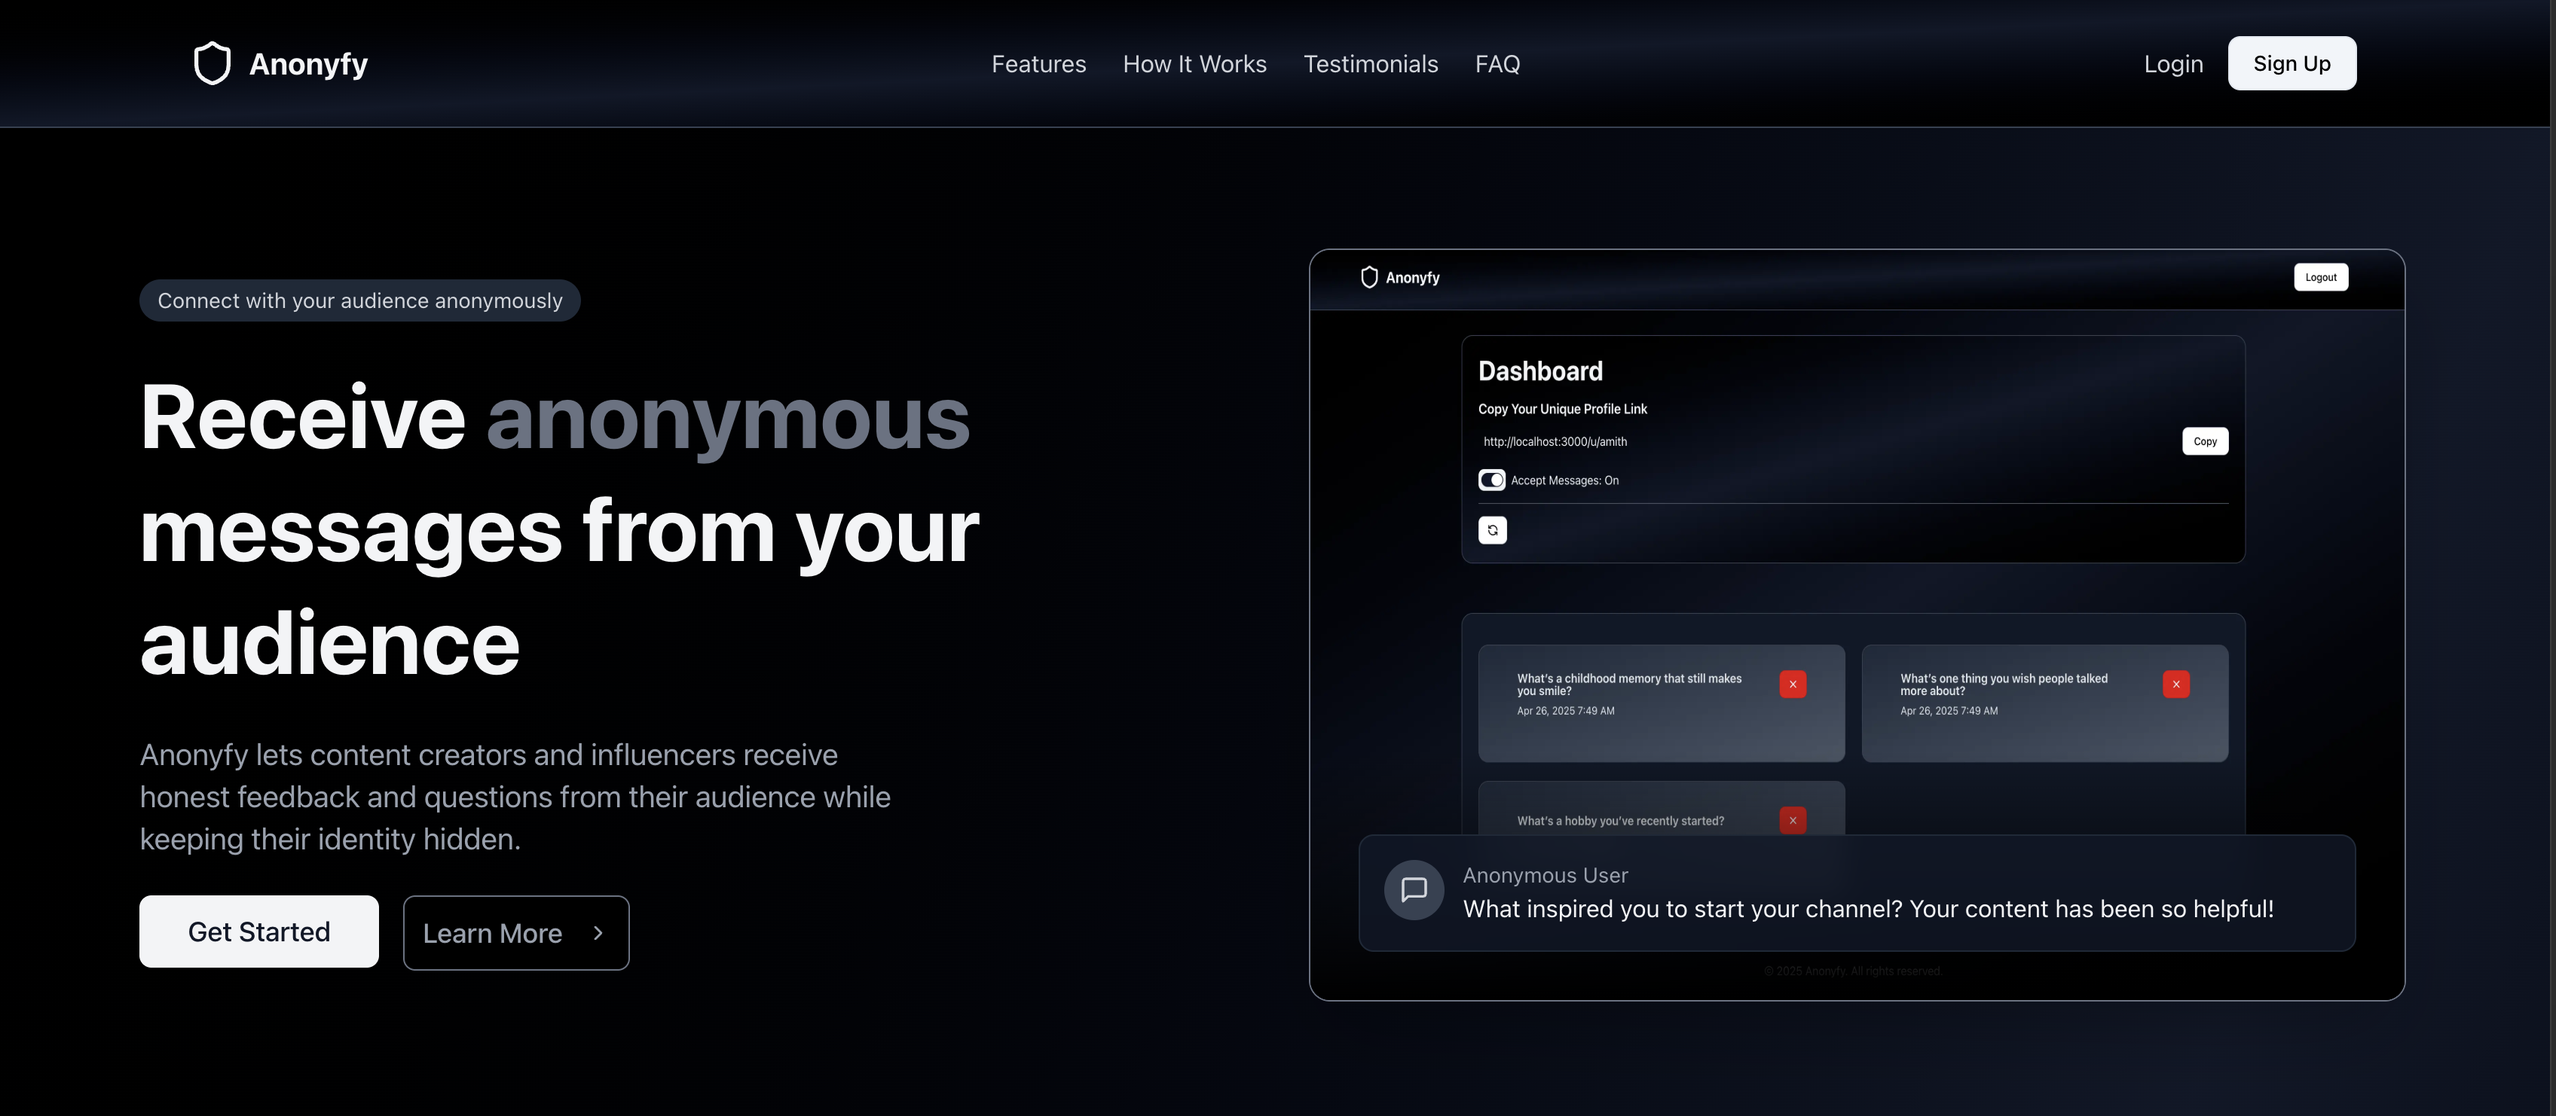
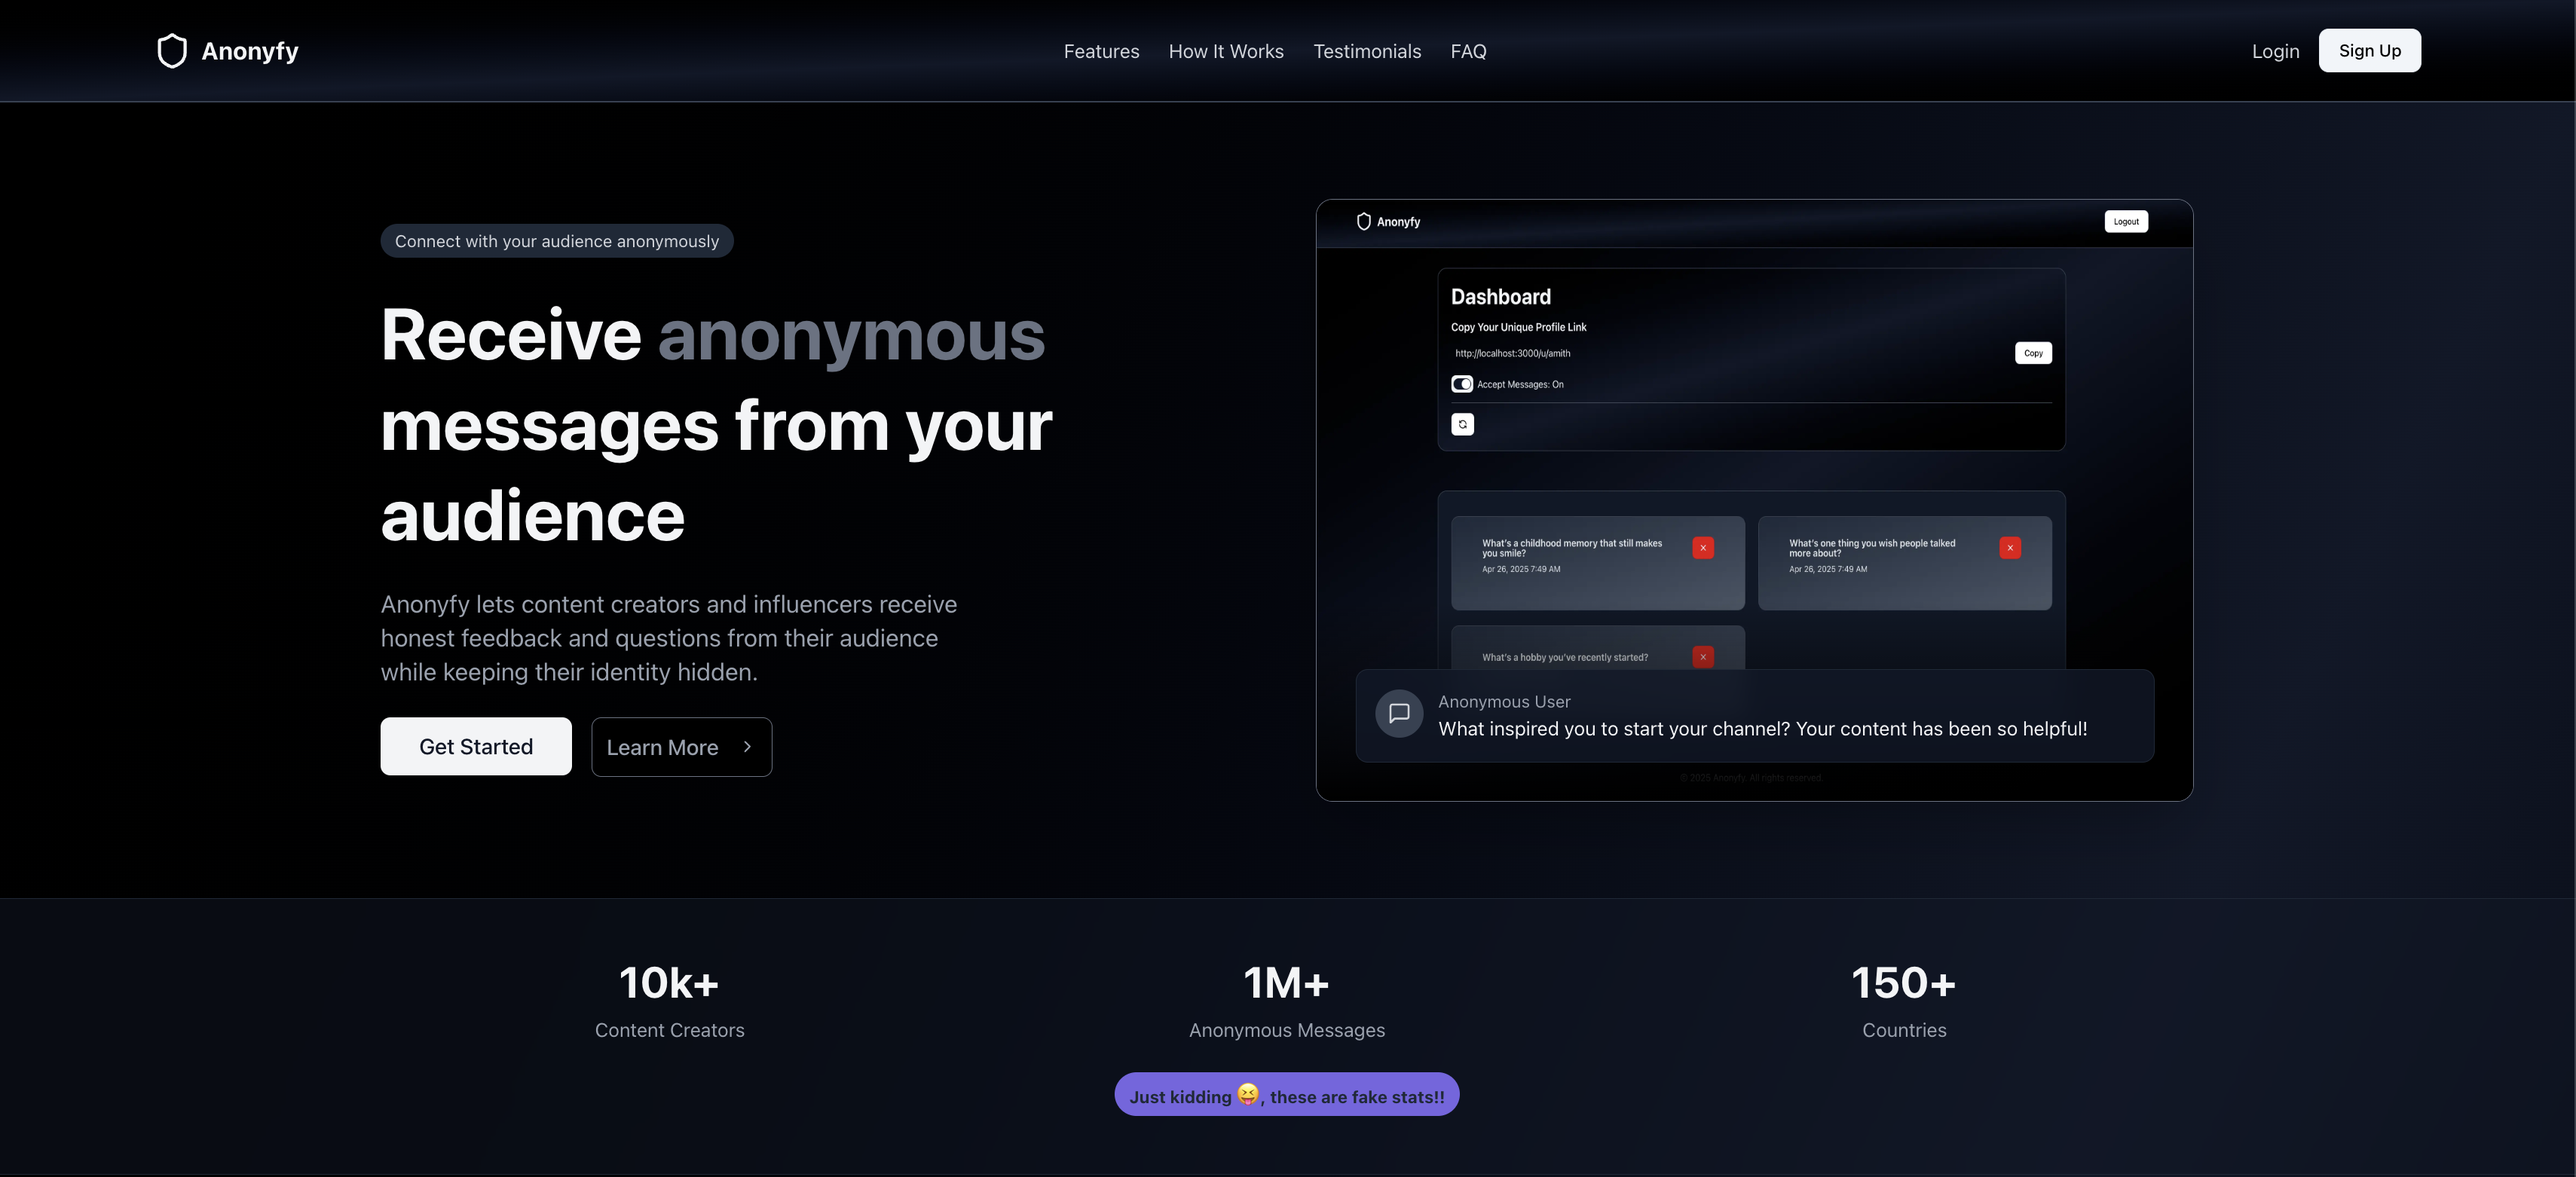
Added new images for React-Native and Saas projects. Then updated the URL's in "TimeLineSection" component.

diff --git a/src/components/TimeLineSection.tsx b/src/components/TimeLineSection.tsx
@@ -299,11 +299,11 @@ export function TimeLineSection() {
 
           <div className="grid grid-cols-2 gap-4">
             <img
-              src="/projects/RN-1.jpeg"
+              src="/projects/RN-1.png"
               alt="hero template"
               width={500}
               height={500}
-              className="h-28 w-full rounded-lg object-contain shadow-[0_0_24px_rgba(34,_42,_53,_0.06),_0_1px_1px_rgba(0,_0,_0,_0.05),_0_0_0_1px_rgba(34,_42,_53,_0.04),_0_0_4px_rgba(34,_42,_53,_0.08),_0_16px_68px_rgba(47,_48,_55,_0.05),_0_1px_0_rgba(255,_255,_255,_0.1)_inset] md:h-44 lg:h-60 dark:border dark:border-gray-600"
+              className="h-28 w-full rounded-lg object-cover shadow-[0_0_24px_rgba(34,_42,_53,_0.06),_0_1px_1px_rgba(0,_0,_0,_0.05),_0_0_0_1px_rgba(34,_42,_53,_0.04),_0_0_4px_rgba(34,_42,_53,_0.08),_0_16px_68px_rgba(47,_48,_55,_0.05),_0_1px_0_rgba(255,_255,_255,_0.1)_inset] md:h-44 lg:h-60 dark:border dark:border-gray-600"
             />
 
             <img
@@ -311,7 +311,7 @@ export function TimeLineSection() {
               alt="feature template"
               width={500}
               height={500}
-              className="h-28 w-full rounded-lg object-contain shadow-[0_0_24px_rgba(34,_42,_53,_0.06),_0_1px_1px_rgba(0,_0,_0,_0.05),_0_0_0_1px_rgba(34,_42,_53,_0.04),_0_0_4px_rgba(34,_42,_53,_0.08),_0_16px_68px_rgba(47,_48,_55,_0.05),_0_1px_0_rgba(255,_255,_255,_0.1)_inset] md:h-44 lg:h-60 dark:border dark:border-gray-600"
+              className="h-28 w-full rounded-lg object-cover shadow-[0_0_24px_rgba(34,_42,_53,_0.06),_0_1px_1px_rgba(0,_0,_0,_0.05),_0_0_0_1px_rgba(34,_42,_53,_0.04),_0_0_4px_rgba(34,_42,_53,_0.08),_0_16px_68px_rgba(47,_48,_55,_0.05),_0_1px_0_rgba(255,_255,_255,_0.1)_inset] md:h-44 lg:h-60 dark:border dark:border-gray-600"
             />
           </div>
 
